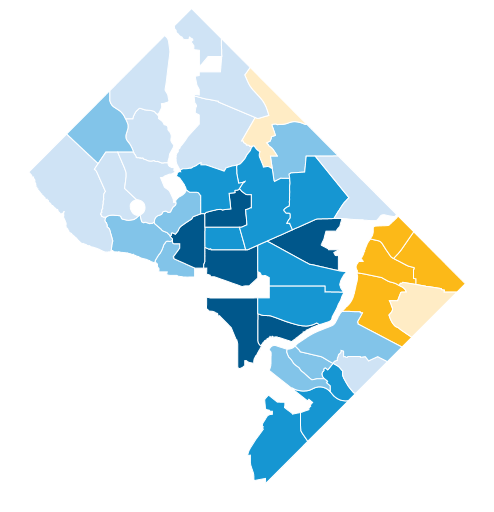
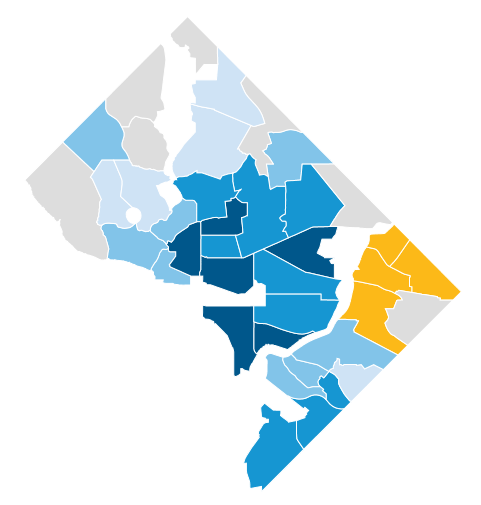
makes libs local for map, buckets update

Changed region(s): [[0.0624, 0.0, 0.9667, 0.9802]]

diff --git a/lib/topojson.min.js b/lib/topojson.min.js
@@ -1,0 +1,1 @@
+!function(){var m={version:"1.6.19",mesh:function(t){return q(t,l.apply(this,arguments))},meshArcs:l,merge:function(t){return q(t,o.apply(this,arguments))},mergeArcs:o,feature:s,neighbors:k,presimplify:d};function a(A,t){var u={},v={},w={},x=[],B=-1;t.forEach(function(F,C){var E=A.arcs[F<0?~F:F],D;if(E.length<3&&!E[1][0]&&!E[1][1]){D=t[++B],t[B]=F,t[C]=D}});t.forEach(function(F){var I=y(F),J=I[0],D=I[1],H,G;if(H=w[J]){delete w[H.end];H.push(F);H.end=D;if(G=v[D]){delete v[G.start];var C=G===H?H:H.concat(G);v[C.start=H.start]=w[C.end=G.end]=C}else{v[H.start]=w[H.end]=H}}else{if(H=v[D]){delete v[H.start];H.unshift(F);H.start=J;if(G=w[J]){delete w[G.end];var E=G===H?H:G.concat(H);v[E.start=G.start]=w[E.end=H.end]=E}else{v[H.start]=w[H.end]=H}}else{H=[F];v[H.start=J]=w[H.end=D]=H}}});function y(D){var C=A.arcs[D<0?~D:D],F=C[0],E;if(A.transform){E=[0,0],C.forEach(function(G){E[0]+=G[0],E[1]+=G[1]})}else{E=C[C.length-1]}return D<0?[E,F]:[F,E]}function z(D,F){for(var C in D){var E=D[C];delete F[E.start];delete E.start;delete E.end;E.forEach(function(G){u[G<0?~G:G]=1});x.push(E)}}z(w,v);z(v,w);t.forEach(function(C){if(!u[C<0?~C:C]){x.push([C])}});return x}function l(E,w,u){var t=[];if(arguments.length>1){var z=[],B;function v(H){var G=H<0?~H:H;(z[G]||(z[G]=[])).push({i:H,g:B})}function F(G){G.forEach(v)}function C(G){G.forEach(F)}function A(G){if(G.type==="GeometryCollection"){G.geometries.forEach(A)}else{if(G.type in D){B=G,D[G.type](G.arcs)}}}var D={LineString:F,MultiLineString:C,Polygon:C,MultiPolygon:function(G){G.forEach(C)}};A(w);z.forEach(arguments.length<3?function(G){t.push(G[0].i)}:function(G){if(u(G[0].g,G[G.length-1].g)){t.push(G[0].i)}})}else{for(var y=0,x=E.arcs.length;y<x;++y){t.push(y)}}return{type:"MultiLineString",arcs:a(E,t)}}function o(z,y){var w={},t=[],v=[];y.forEach(function(A){if(A.type==="Polygon"){u(A.arcs)}else{if(A.type==="MultiPolygon"){A.arcs.forEach(u)}}});function u(A){A.forEach(function(B){B.forEach(function(C){(w[C=C<0?~C:C]||(w[C]=[])).push(A)})});t.push(A)}function x(A){return j(q(z,{type:"Polygon",arcs:[A]}).coordinates[0])>0}t.forEach(function(C){if(!C._){var A=[],B=[C];C._=1;v.push(A);while(C=B.pop()){A.push(C);C.forEach(function(D){D.forEach(function(E){w[E<0?~E:E].forEach(function(F){if(!F._){F._=1;B.push(F)}})})})}}});t.forEach(function(A){delete A._});return{type:"MultiPolygon",arcs:v.map(function(A){var D=[];A.forEach(function(F){F.forEach(function(G){G.forEach(function(H){if(w[H<0?~H:H].length<2){D.push(H)}})})});D=a(z,D);if((n=D.length)>1){var E=x(A[0][0]);for(var C=0,B;C<n;++C){if(E===x(D[C])){B=D[0],D[0]=D[C],D[C]=B;break}}}return D})}}function s(u,t){return t.type==="GeometryCollection"?{type:"FeatureCollection",features:t.geometries.map(function(v){return g(u,v)})}:g(u,t)}function g(v,u){var t={type:"Feature",id:u.id,properties:u.properties||{},geometry:q(v,u)};if(u.id==null){delete t.id}return t}function q(C,v){var z=c(C.transform),t=C.arcs;function u(G,H){if(H.length){H.pop()}for(var E=t[G<0?~G:G],F=0,J=E.length,I;F<J;++F){H.push(I=E[F].slice());z(I,F)}if(G<0){i(H,J)}}function A(E){E=E.slice();z(E,0);return E}function D(G){var F=[];for(var E=0,H=G.length;E<H;++E){u(G[E],F)}if(F.length<2){F.push(F[0].slice())}return F}function w(F){var E=D(F);while(E.length<4){E.push(E[0].slice())}return E}function y(E){return E.map(w)}function x(F){var E=F.type;return E==="GeometryCollection"?{type:E,geometries:F.geometries.map(x)}:E in B?{type:E,coordinates:B[E](F)}:null}var B={Point:function(E){return A(E.coordinates)},MultiPoint:function(E){return E.coordinates.map(A)},LineString:function(E){return D(E.arcs)},MultiLineString:function(E){return E.arcs.map(D)},Polygon:function(E){return y(E.arcs)},MultiPolygon:function(E){return E.arcs.map(y)}};return x(v)}function i(y,x){var w,u=y.length,v=u-x;while(v<--u){w=y[v],y[v++]=y[u],y[u]=w}}function p(u,t){var y=0,w=u.length;while(y<w){var v=y+w>>>1;if(u[v]<t){y=v+1}else{w=v}}return y}function k(F){var v={},G=F.map(function(){return[]});function H(J,I){J.forEach(function(K){if(K<0){K=~K}var L=v[K];if(L){L.push(I)}else{v[K]=[I]}})}function B(J,I){J.forEach(function(K){H(K,I)})}function A(J,I){if(J.type==="GeometryCollection"){J.geometries.forEach(function(K){A(K,I)})}else{if(J.type in E){E[J.type](J.arcs,I)}}}var E={LineString:H,MultiLineString:B,Polygon:B,MultiPolygon:function(J,I){J.forEach(function(K){B(K,I)})}};F.forEach(A);for(var y in v){for(var z=v[y],u=z.length,x=0;x<u;++x){for(var w=x+1;w<u;++w){var D=z[x],C=z[w],t;if((t=G[D])[y=p(t,C)]!==C){t.splice(y,0,C)}if((t=G[C])[y=p(t,D)]!==D){t.splice(y,0,D)}}}}return G}function d(y,t){var x=c(y.transform),v=b(y.transform),u=h();if(!t){t=f}y.arcs.forEach(function(A){var C=[],H=0,F;for(var D=0,B=A.length,z;D<B;++D){z=A[D];x(A[D]=[z[0],z[1],Infinity],D)}for(var D=1,B=A.length-1;D<B;++D){F=A.slice(D-1,D+2);F[1][2]=t(F);C.push(F);u.push(F)}for(var D=0,B=C.length;D<B;++D){F=C[D];F.previous=C[D-1];F.next=C[D+1]}while(F=u.pop()){var G=F.previous,E=F.next;if(F[1][2]<H){F[1][2]=H}else{H=F[1][2]}if(G){G.next=E;G[2]=F[2];w(G)}if(E){E.previous=G;E[0]=F[0];w(E)}}A.forEach(v)});function w(z){u.remove(z);z[1][2]=t(z);u.push(z)}return y}function j(v){var w=-1,y=v.length,u,t=v[y-1],x=0;while(++w<y){u=t;t=v[w];x+=u[0]*t[1]-u[1]*t[0]}return x*0.5}function f(v){var u=v[0],t=v[1],w=v[2];return Math.abs((u[0]-w[0])*(t[1]-u[1])-(u[0]-t[0])*(w[1]-u[1]))}function r(u,t){return u[1][2]-t[1][2]}function h(){var u={},x=[],v=0;u.push=function(y){t(x[y._=v]=y,v++);return v};u.pop=function(){if(v<=0){return}var z=x[0],y;if(--v>0){y=x[v],w(x[y._=0]=y,0)}return z};u.remove=function(A){var z=A._,y;if(x[z]!==A){return}if(z!==--v){y=x[v],(r(y,A)<0?t:w)(x[y._=z]=y,z)}return z};function t(z,A){while(A>0){var y=((A+1)>>1)-1,B=x[y];if(r(z,B)>=0){break}x[B._=A]=B;x[z._=A=y]=z}}function w(A,B){while(true){var C=(B+1)<<1,y=C-1,z=B,D=x[z];if(y<v&&r(x[y],D)<0){D=x[z=y]}if(C<v&&r(x[C],D)<0){D=x[z=C]}if(z===B){break}x[D._=B]=D;x[A._=B=z]=A}}return u}function c(v){if(!v){return e}var x,z,y=v.scale[0],w=v.scale[1],u=v.translate[0],t=v.translate[1];return function(A,B){if(!B){x=z=0}A[0]=(x+=A[0])*y+u;A[1]=(z+=A[1])*w+t}}function b(v){if(!v){return e}var x,z,y=v.scale[0],w=v.scale[1],u=v.translate[0],t=v.translate[1];return function(A,C){if(!C){x=z=0}var B=(A[0]-u)/y|0,D=(A[1]-t)/w|0;A[0]=B-x;A[1]=D-z;x=B;z=D}}function e(){}if(typeof define==="function"&&define.amd){define(m)}else{if(typeof module==="object"&&module.exports){module.exports=m}else{this.topojson=m}}}();

diff --git a/neighborhoods.html b/neighborhoods.html
@@ -8,16 +8,16 @@
 </style>
 
 <body>
-    <script src="https://cdnjs.cloudflare.com/ajax/libs/d3/3.5.5/d3.min.js"></script>
-    <script src="https://cdnjs.cloudflare.com/ajax/libs/queue-async/1.0.7/queue.min.js"></script>
-    <script src="https://cdnjs.cloudflare.com/ajax/libs/topojson/1.6.19/topojson.min.js"></script>
+    <script src="lib/d3.min.js"></script>
+    <script src="lib/queue.min.js"></script>
+    <script src="lib/topojson.min.js"></script>
     <script>
         var width = 500,
             height = 500;
 
         var color = d3.scale.threshold()
-            .domain([-100, -50, -25, 0, 10, 132])
-            .range(["#00578b","#1696d2","#82c4e9","#cfe3f5", "#ffecc5", "#fcb918"]);
+            .domain([-100, -50, -25, -10, 10, 132])
+            .range(["#00578b", "#1696d2", "#82c4e9", "#cfe3f5", "#ddd", "#fcb918"]);
 
         var projection = d3.geo.mercator();
 

diff --git a/lib/queue.min.js b/lib/queue.min.js
@@ -1,0 +1,1 @@
+!function(){function n(n){function e(){for(;i=a<c.length&&n>p;){var u=a++,e=c[u],o=t.call(e,1);o.push(l(u)),++p,e[0].apply(null,o)}}function l(n){return function(u,t){--p,null==s&&(null!=u?(s=u,a=d=0/0,o()):(c[n]=t,--d?i||e():o()))}}function o(){null!=s?m(s):f?m(s,c):m.apply(null,[s].concat(c))}var r,i,f,c=[],a=0,p=0,d=0,s=null,m=u;return n||(n=1/0),r={defer:function(){return s||(c.push(arguments),++d,e()),r},await:function(n){return m=n,f=!1,d||o(),r},awaitAll:function(n){return m=n,f=!0,d||o(),r}}}function u(){}var t=[].slice;n.version="1.0.7","function"==typeof define&&define.amd?define(function(){return n}):"object"==typeof module&&module.exports?module.exports=n:this.queue=n}();
